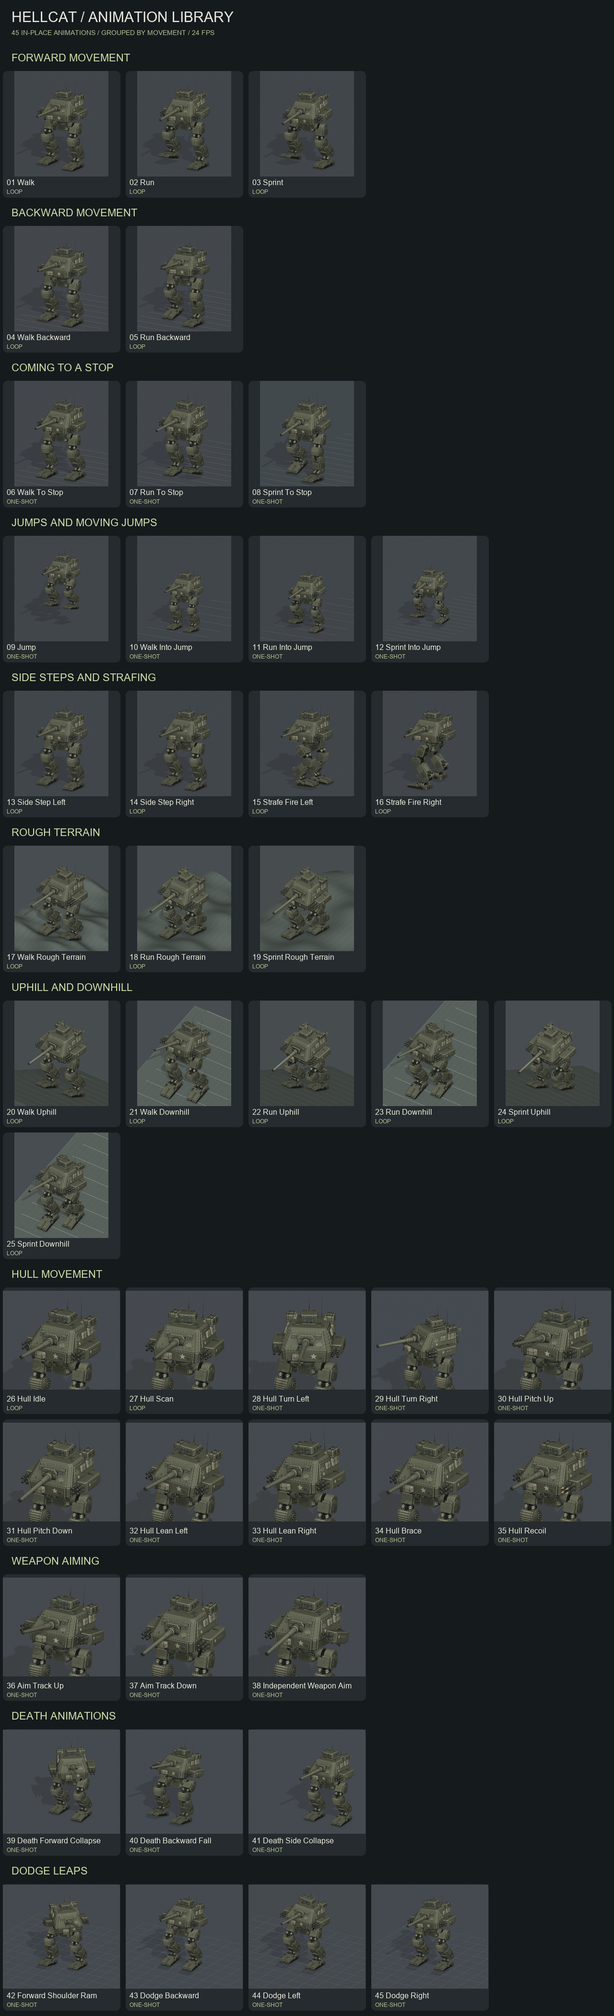
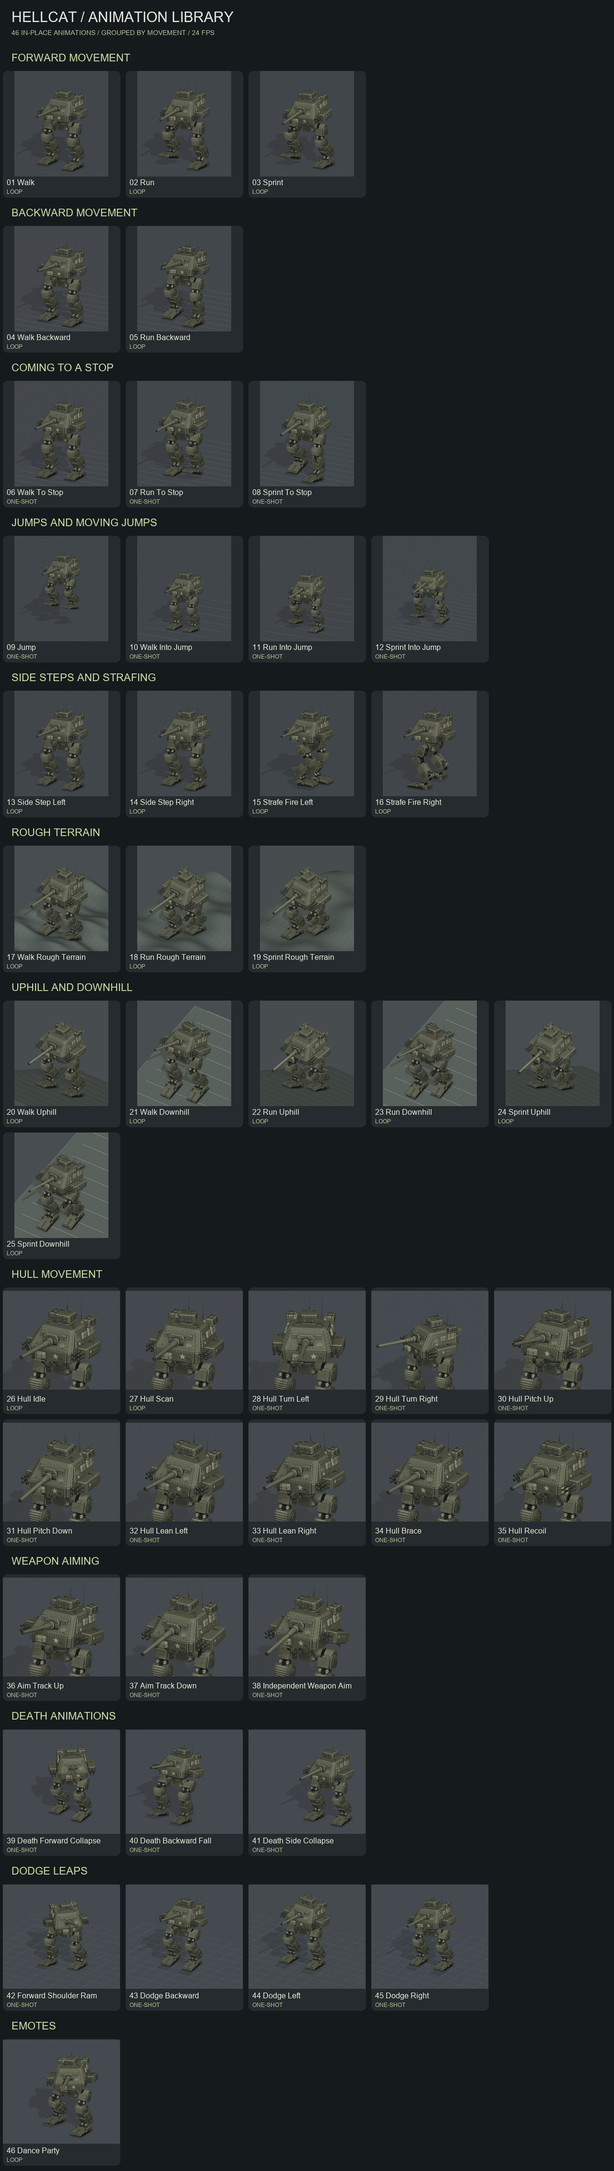
Add 46 Dance Party emote with verification and packaging updates

diff --git a/index.html b/index.html
@@ -10,10 +10,10 @@
 <header>
   <div class="eyebrow">M18 HELLCAT GHOST / MOTION STUDIES</div>
   <h1>Animation library</h1>
-  <p class="intro">45 animation previews, grouped by movement and numbered in viewing order. Choose a group below to jump to it.</p>
+  <p class="intro">46 animation previews, grouped by movement and numbered in viewing order. Choose a group below to jump to it.</p>
   <p class="note"><strong>Game controller setup:</strong> gameplay Actions retain a stationary root. Preview travel comes from a temporary controller simulation. Hill clips use 22° slopes; rough-terrain clips have roughly three times the original height variation. Terrain clips are authored examples to blend with runtime foot IK.</p>
   <p class="note"><strong>Weapon aiming:</strong> the cannon and each armored pod have ±20° elevation relative to the hull. Clips 36–37 show continued tracking after the hull reaches its ±5° aiming allocation; clip 38 shows independent targets. Terrain, slope, weapon-aiming, death, and dodge previews show the updated pod spacing; earlier motion previews retain their prior model revision.</p>
-  <nav aria-label="Animation groups"><a href="#forward">Forward movement</a><a href="#backward">Backward movement</a><a href="#stopping">Coming to a stop</a><a href="#jumps">Jumps and moving jumps</a><a href="#lateral">Side steps and strafing</a><a href="#rough-terrain">Rough terrain</a><a href="#slopes">Uphill and downhill</a><a href="#hull">Hull movement</a><a href="#weapons">Weapon aiming</a><a href="#deaths">Death animations</a><a href="#dodges">Dodge leaps</a></nav>
+  <nav aria-label="Animation groups"><a href="#forward">Forward movement</a><a href="#backward">Backward movement</a><a href="#stopping">Coming to a stop</a><a href="#jumps">Jumps and moving jumps</a><a href="#lateral">Side steps and strafing</a><a href="#rough-terrain">Rough terrain</a><a href="#slopes">Uphill and downhill</a><a href="#hull">Hull movement</a><a href="#weapons">Weapon aiming</a><a href="#deaths">Death animations</a><a href="#dodges">Dodge leaps</a><a href="#emotes">Emotes</a></nav>
   <nav aria-label="Project files"><a href="assets/contact_sheet.png">Contact sheet</a><a href="docs/animation-guide.md">Integration notes</a><a href="data/manifest.json">Manifest + verification</a></nav>
 </header>
 <main><section id="forward" aria-labelledby="heading-forward"><h2 class="group-heading" id="heading-forward">Forward movement<span class="range">01–03</span></h2><div class="grid"><article><a href="assets/animations/01_walk.gif"><img loading="lazy" src="assets/animations/01_walk.gif" alt="01 Walk animation"></a>
@@ -151,7 +151,10 @@
 <details><summary>Original Blender Action</summary><code>HC ANIM | 44 Dodge Left</code></details></div></article><article><a href="assets/animations/45_dodge_right.gif"><img loading="lazy" src="assets/animations/45_dodge_right.gif" alt="45 Dodge Right animation"></a>
 <div class="details"><h3>45 Dodge Right</h3><p class="tag">ONE-SHOT · 1.25s · Dodge</p>
 <p class="timing">Frames 1–31 · 1.680 units/s</p>
-<details><summary>Original Blender Action</summary><code>HC ANIM | 45 Dodge Right</code></details></div></article></div></section></main>
+<details><summary>Original Blender Action</summary><code>HC ANIM | 45 Dodge Right</code></details></div></article></div></section><section id="emotes" aria-labelledby="heading-emotes"><h2 class="group-heading" id="heading-emotes">Emotes<span class="range">46–46</span></h2><div class="grid"><article><a href="assets/animations/46_dance_party.gif"><img loading="lazy" src="assets/animations/46_dance_party.gif" alt="46 Dance Party animation"></a>
+<div class="details"><h3>46 Dance Party</h3><p class="tag">LOOP · 8.00s · Emote</p>
+<p class="timing">Frames 1–193 · 0.000 units/s</p>
+<details><summary>Original Blender Action</summary><code>HC ANIM | 46 Dance Party</code></details></div></article></div></section></main>
 <footer>Gallery numbers follow the grouped viewing order. Original Blender Action identifiers remain available in each card and the manifest. Direction labels are from the mech's perspective.</footer>
 </body>
 </html>

diff --git a/revision_6.html b/revision_6.html
@@ -10,10 +10,10 @@
 <header>
   <div class="eyebrow">M18 HELLCAT GHOST / MOTION STUDIES</div>
   <h1>Animation library</h1>
-  <p class="intro">45 animation previews, grouped by movement and numbered in viewing order. Choose a group below to jump to it.</p>
+  <p class="intro">46 animation previews, grouped by movement and numbered in viewing order. Choose a group below to jump to it.</p>
   <p class="note"><strong>Game controller setup:</strong> gameplay Actions retain a stationary root. Preview travel comes from a temporary controller simulation. Hill clips use 22° slopes; rough-terrain clips have roughly three times the original height variation. Terrain clips are authored examples to blend with runtime foot IK.</p>
   <p class="note"><strong>Weapon aiming:</strong> the cannon and each armored pod have ±20° elevation relative to the hull. Clips 36–37 show continued tracking after the hull reaches its ±5° aiming allocation; clip 38 shows independent targets. Terrain, slope, weapon-aiming, death, and dodge previews show the updated pod spacing; earlier motion previews retain their prior model revision.</p>
-  <nav aria-label="Animation groups"><a href="#forward">Forward movement</a><a href="#backward">Backward movement</a><a href="#stopping">Coming to a stop</a><a href="#jumps">Jumps and moving jumps</a><a href="#lateral">Side steps and strafing</a><a href="#rough-terrain">Rough terrain</a><a href="#slopes">Uphill and downhill</a><a href="#hull">Hull movement</a><a href="#weapons">Weapon aiming</a><a href="#deaths">Death animations</a><a href="#dodges">Dodge leaps</a></nav>
+  <nav aria-label="Animation groups"><a href="#forward">Forward movement</a><a href="#backward">Backward movement</a><a href="#stopping">Coming to a stop</a><a href="#jumps">Jumps and moving jumps</a><a href="#lateral">Side steps and strafing</a><a href="#rough-terrain">Rough terrain</a><a href="#slopes">Uphill and downhill</a><a href="#hull">Hull movement</a><a href="#weapons">Weapon aiming</a><a href="#deaths">Death animations</a><a href="#dodges">Dodge leaps</a><a href="#emotes">Emotes</a></nav>
   <nav aria-label="Project files"><a href="assets/contact_sheet.png">Contact sheet</a><a href="docs/animation-guide.md">Integration notes</a><a href="data/manifest.json">Manifest + verification</a></nav>
 </header>
 <main><section id="forward" aria-labelledby="heading-forward"><h2 class="group-heading" id="heading-forward">Forward movement<span class="range">01–03</span></h2><div class="grid"><article><a href="assets/animations/01_walk.gif"><img loading="lazy" src="assets/animations/01_walk.gif" alt="01 Walk animation"></a>
@@ -151,7 +151,10 @@
 <details><summary>Original Blender Action</summary><code>HC ANIM | 44 Dodge Left</code></details></div></article><article><a href="assets/animations/45_dodge_right.gif"><img loading="lazy" src="assets/animations/45_dodge_right.gif" alt="45 Dodge Right animation"></a>
 <div class="details"><h3>45 Dodge Right</h3><p class="tag">ONE-SHOT · 1.25s · Dodge</p>
 <p class="timing">Frames 1–31 · 1.680 units/s</p>
-<details><summary>Original Blender Action</summary><code>HC ANIM | 45 Dodge Right</code></details></div></article></div></section></main>
+<details><summary>Original Blender Action</summary><code>HC ANIM | 45 Dodge Right</code></details></div></article></div></section><section id="emotes" aria-labelledby="heading-emotes"><h2 class="group-heading" id="heading-emotes">Emotes<span class="range">46–46</span></h2><div class="grid"><article><a href="assets/animations/46_dance_party.gif"><img loading="lazy" src="assets/animations/46_dance_party.gif" alt="46 Dance Party animation"></a>
+<div class="details"><h3>46 Dance Party</h3><p class="tag">LOOP · 8.00s · Emote</p>
+<p class="timing">Frames 1–193 · 0.000 units/s</p>
+<details><summary>Original Blender Action</summary><code>HC ANIM | 46 Dance Party</code></details></div></article></div></section></main>
 <footer>Gallery numbers follow the grouped viewing order. Original Blender Action identifiers remain available in each card and the manifest. Direction labels are from the mech's perspective.</footer>
 </body>
 </html>

diff --git a/tools/blender_dance_party.py b/tools/blender_dance_party.py
@@ -1,0 +1,90 @@
+"""Build the HELLCAT dance emote in live Blender; supply PROJECT_ROOT. Never saves .blend."""
+import bpy,math,json
+from mathutils import Vector
+from pathlib import Path
+
+rig=bpy.data.objects['HELLCAT | CURRENT MECH RIG'];scene=bpy.context.scene
+ctx=bpy.app.driver_namespace['HC animation build context']
+LABEL='46 Dance Party';DURATION=192
+def smooth(x):
+    x=max(0,min(1,x));return x*x*(3-2*x)
+def state(t):
+    st=ctx['state']();env=smooth(t/6)*(1-smooth((t-180)/12))
+    beat=t/12;u=beat%1;bar=int(t//48);wave=math.sin(math.pi*u)
+    active='L' if int(beat)%2==0 else 'R'
+    sway=math.sin(math.pi*beat)
+    z=(-.13-.10*(1-wave))*env
+    x=-.14*sway*env
+    yaw=22*math.sin(math.pi*beat/2)*env
+    roll=-6*sway*env;pitch=(3+4*math.sin(math.tau*beat))*env
+    if bar==2:
+        # Both feet stay planted for a rapid hull shimmy and alternating pod wave.
+        x=.12*math.sin(math.pi*beat)*env
+        yaw=28*math.sin(math.tau*beat/2)*env
+        roll=7*math.sin(math.tau*beat)*env
+        z=(-.19+.055*math.cos(math.tau*beat))*env
+    if bar>=3:
+        flourish=smooth((t-144)/8)*(1-smooth((t-168)/20))
+        yaw=(30*flourish+10*math.sin(math.pi*beat/2))*env
+        pitch=(2*flourish+3*math.sin(math.tau*beat))*env
+    ctx['loc'](st,'CTRL.pelvis',(x,0,z))
+    ctx['rot'](st,'CTRL.torso',(pitch,yaw,roll))
+    ctx['rot'](st,'CTRL.sensor.yaw',(0,-yaw*.55,0))
+    ctx['rot'](st,'CTRL.sensor.pitch',(-pitch*.5+3*math.sin(math.tau*beat)*env,0,0))
+    for side,sign in [('L',1),('R',-1)]:
+        v=Vector((0,0,0))
+        if side==active and bar!=2:
+            lift=.30 if bar==0 else .24 if bar==1 else .36
+            v.z=lift*wave**1.2*env
+            if bar==1:
+                v.x=sign*.23*wave*env;v.y=.22*math.sin(math.tau*u)*env
+            else:v.y=-.16*wave*env
+        ctx['loc'](st,'CTRL.foot_IK.'+side,v)
+        st['contact'][side]=v.z<1e-6;st['lift'][side]=v.z
+        ctx['rot'](st,'CTRL.ankle_tilt.'+side,(-10*wave*env if v.z else 0,0,0))
+        pod=(-9+9*math.sin(math.pi*beat+sign*math.pi/2))*env
+        if bar>=3:pod=-18*smooth((t-144)/8)*env
+        ctx['rot'](st,'CTRL.pod_aim.'+side,(pod,0,0))
+    cannon=(-6+5*math.sin(math.pi*beat/2))*env
+    if bar>=3:cannon=-17*smooth((t-144)/8)*env
+    ctx['rot'](st,'CTRL.cannon.aim',(cannon,0,0))
+    ctx['rot'](st,'CTRL.antenna.head',(4*math.sin(math.tau*beat+.5)*env,0,0))
+    ctx['rot'](st,'CTRL.antenna.hull',(2.5*math.sin(math.tau*beat-.3)*env,0,0))
+    return st
+
+digest=bpy.app.driver_namespace['HC terrain revision context']['digest']
+bpy.app.driver_namespace['HC dance protected actions']={a.name:digest(a) for a in bpy.data.actions if a.name.startswith('HC ANIM | ') and a.name!='HC ANIM | '+LABEL}
+original=(rig.animation_data.action,rig.animation_data.action_slot,scene.frame_current)
+try:
+    old=bpy.data.actions.get('HC ANIM | '+LABEL)
+    if old:
+        assert old.get('HC dance emote');old.name='HC ARCHIVE | '+LABEL;old.use_fake_user=True;old.asset_clear()
+    action=bpy.data.actions.new('HC ANIM | '+LABEL);action.use_fake_user=True;rig.animation_data.action=action
+    samples=[]
+    for f in range(1,DURATION+2):
+        scene.frame_set(f);st=state(f-1);ctx['apply'](st)
+        for n in ctx['controls']:
+            p=rig.pose.bones[n]
+            if n in ctx['FX']:p.keyframe_insert(data_path='scale',frame=f,group='Optional weapon FX')
+            else:
+                p.keyframe_insert(data_path='location',frame=f,group=n);p.keyframe_insert(data_path='rotation_euler',frame=f,group=n)
+        samples.append({'frame':f,'contacts':st['contact']})
+    for layer in action.layers:
+        for strip in layer.strips:
+            for bag in strip.channelbags:
+                for fc in bag.fcurves:
+                    for key in fc.keyframe_points:key.interpolation='LINEAR'
+                    fc.modifiers.new('CYCLES')
+    markers=[('Stomp groove',1),('Side shuffle',49),('Hull shimmy',97),('Victory flourish',145),('Return to ready',181)]
+    for name,f in markers:action.pose_markers.new(name).frame=f
+    action['HC animation library']='MECH_2026_09';action['HC dance emote']=True;action['FPS']=24;action['Loop']=True;action['BPM']=120
+    action['Category']='Emote';action['Root motion']='None';action['Contact samples']=json.dumps(samples)
+    action.asset_mark();action.asset_data.description='8-second party dance: stomps, shuffle, hull shimmy, pod waves and victory flourish. 120 BPM, stationary root.'
+finally:
+    ctx['reset']();rig.animation_data.action=original[0]
+    if original[1]:rig.animation_data.action_slot=original[1]
+    scene.frame_set(original[2])
+bpy.app.driver_namespace['HC dance context']={'state':state,'label':LABEL,'duration':DURATION}
+row={'label':LABEL,'source_label':LABEL,'action':'HC ANIM | '+LABEL,'slug':'46_dance_party','duration_frames':DURATION,'fps':24,'loop':True,'category':'Emote','gallery_group':'emotes','nominal_speed_units_per_s':0,'bpm':120,'preview_frame_step':2,'revision':'Dance party','markers':[{'name':n,'frame':f} for n,f in markers]}
+(Path(PROJECT_ROOT)/'build/dance_action.json').write_text(json.dumps(row,indent=2)+'\n')
+print(json.dumps({'created':row['action'],'duration_seconds':8,'saved':False}))

diff --git a/tools/blender_verify_dance.py b/tools/blender_verify_dance.py
@@ -1,0 +1,48 @@
+"""Verify the dance clip in live Blender. Supply PROJECT_ROOT."""
+import bpy,json
+from pathlib import Path
+rig=bpy.data.objects['HELLCAT | CURRENT MECH RIG'];scene=bpy.context.scene
+ctx=bpy.app.driver_namespace['HC animation build context'];dc=bpy.app.driver_namespace['HC dance context']
+tree=bpy.app.driver_namespace['HC weapon mesh_tree'];floor=bpy.app.driver_namespace['HC death context']['floor_low']
+old=(rig.animation_data.action,scene.frame_current);root=slide=attachment=0;minimum=1e9;first=None;previous={};hits={}
+try:
+    ctx['reset']();rig.animation_data.action=bpy.data.actions['HC ANIM | 46 Dance Party']
+    for f in range(1,194):
+        scene.frame_set(f);st=dc['state'](f-1)
+        p=rig.pose.bones['CTRL.root'];root=max(root,p.location.length,p.rotation_euler.to_matrix().to_quaternion().angle)
+        minimum=min(minimum,floor()[0])
+        if first is None:first={p.name:p.matrix_basis.copy() for p in rig.pose.bones}
+        for side in ['L','R']:
+            point=rig.pose.bones['DEF.foot.'+side].head
+            if st['contact'][side]:
+                if side in previous:slide=max(slide,(point-previous[side]).xy.length)
+                previous[side]=point.copy()
+            else:previous.pop(side,None)
+            for name in ['DEF.shin.','DEF.hock.','DEF.foot.']:
+                p=rig.pose.bones[name+side];attachment=max(attachment,(p.head-p.parent.tail).length)
+        cache={}
+        def get(n,p=None):
+            if (n,p) not in cache:cache[n,p]=tree(n,p)
+            return cache[n,p]
+        def pair(a,b,pa=None,pb=None):
+            overlap=get(a,pa).overlap(get(b,pb))
+            if overlap:hits.setdefault(a+' / '+b,[]).append({'frame':f,'faces':len(overlap)})
+        for side in ['L','R']:
+            pre='HC V2 '+side+' | '
+            pair(pre+'02 layered thigh shells',pre+'03 curved knee guards')
+            pair(pre+'07 load frames and brackets',pre+'02 layered thigh shells')
+            for part in ['01 shaped hip armor','02 layered thigh shells']:
+                pair(pre+part,'HC Hull | closed faceted lower tub')
+                pair(pre+part,'HC Pods | twin armored sponsons',None,'CTRL.pod_aim')
+            pair(pre+'05 faceted shin housings',pre+'08 layered toe and instep armor')
+            pair(pre+'12 reverse hock to ankle links',pre+'08 layered toe and instep armor')
+            pair(pre+'02 layered thigh shells','HC Cannon | continuous barrel and open bore')
+
+        for hull in ['HC Hull | closed faceted lower tub','HC Hull | layered casemate armor']:
+            pair('HC Pods | twin armored sponsons',hull,'CTRL.pod_aim')
+    seam=max(abs(p.matrix_basis[i][j]-first[p.name][i][j]) for p in rig.pose.bones for i in range(4) for j in range(4))
+finally:
+    ctx['reset']();rig.animation_data.action=old[0];scene.frame_set(old[1])
+report={'clip':'46 Dance Party','frames_checked':193,'root_error':root,'minimum_body_surface_z':minimum,'maximum_planted_foot_slide':slide,'maximum_joint_attachment_error':attachment,'loop_seam':seam,'intersections':hits,'scope':'All frames: stationary root, conservative body floor clearance, planted-foot movement, leg joint attachment, loop endpoints, selected leg armor pairs and moving pod armor against the hull. Not an exhaustive all-object collision check.'}
+(Path(PROJECT_ROOT)/'data/verification/dance_party.json').write_text(json.dumps(report,indent=2)+'\n')
+print(json.dumps(report))

diff --git a/tools/blender_render_dance.py b/tools/blender_render_dance.py
@@ -1,0 +1,46 @@
+"""Render the dance-party emote through Blender MCP; restore scene settings.
+Supply PROJECT_ROOT and optionally DANCE_FRAMES.
+"""
+import bpy,math,json
+import numpy as np
+from pathlib import Path
+from mathutils import Vector
+
+out=Path(PROJECT_ROOT)/'build/dance_previews';out.mkdir(parents=True,exist_ok=True)
+rig=bpy.data.objects['HELLCAT | CURRENT MECH RIG'];studio=bpy.data.scenes['HELLCAT | Walking GIF studio'];win=bpy.context.window
+dc=bpy.app.driver_namespace['HC death context'];ctx=bpy.app.driver_namespace['HC animation build context']
+saved=(win.scene,rig.animation_data.action,rig.animation_data.action_slot,win.scene.frame_current)
+saved_pose={p.name:p.matrix_basis.copy() for p in rig.pose.bones}
+camera=studio.camera;cam_matrix=camera.matrix_world.copy();cam_scale=camera.data.ortho_scale
+settings=(studio.render.filepath,studio.render.resolution_x,studio.render.resolution_y,studio.render.resolution_percentage,studio.render.engine,studio.render.image_settings.file_format,studio.frame_current)
+done=[]
+try:
+    win.scene=studio;studio.render.engine='BLENDER_WORKBENCH';studio.render.image_settings.file_format='PNG'
+    studio.render.resolution_x=720;studio.render.resolution_y=640;studio.render.resolution_percentage=100
+    for c in [dict(label='46 Dance Party',duration=192)]:
+        ctx['reset']();rig.animation_data.action=bpy.data.actions['HC ANIM | '+c['label']]
+        direction=Vector((8,-13,6)).normalized();rotation=(-direction).to_track_quat('-Z','Y')
+        right=rotation@Vector((1,0,0));up=rotation@Vector((0,1,0))
+        lo=np.array([1e9,1e9]);hi=-lo
+        for f in list(range(1,194,6)):
+            studio.frame_set(f)
+            for bn,points in dc['cloud'].items():
+                m=np.asarray(rig.matrix_world@rig.pose.bones[bn].matrix)
+                projected=points@m[:3,:].T@np.array([right,up]).T
+                lo=np.minimum(lo,projected.min(axis=0));hi=np.maximum(hi,projected.max(axis=0))
+        center=(lo+hi)/2;target=right*center[0]+up*center[1]
+        camera.location=target+direction*20;camera.rotation_euler=rotation.to_euler()
+        camera.data.ortho_scale=max((hi[0]-lo[0])*1.13,(hi[1]-lo[1])*720/640*1.13)
+        folder=out/c['label'].lower().replace(' ','_');folder.mkdir(exist_ok=True)
+        frames=globals().get('DANCE_FRAMES') or list(range(1,c['duration']+1,2))
+        for f in frames:
+            studio.frame_set(f);studio.render.filepath=str(folder/f'frame_{f:03d}.png');bpy.ops.render.render(write_still=True)
+        done.append({'label':c['label'],'frames':len(frames),'ortho_scale':camera.data.ortho_scale})
+finally:
+    camera.matrix_world=cam_matrix;camera.data.ortho_scale=cam_scale
+    studio.render.filepath,studio.render.resolution_x,studio.render.resolution_y,studio.render.resolution_percentage,studio.render.engine,studio.render.image_settings.file_format,frame=settings
+    studio.frame_set(frame);win.scene=saved[0];rig.animation_data.action=saved[1]
+    if saved[2]:rig.animation_data.action_slot=saved[2]
+    for n,m in saved_pose.items():rig.pose.bones[n].matrix_basis=m
+    saved[0].frame_set(saved[3]);bpy.context.view_layer.update()
+print(json.dumps({'rendered':done,'blend_saved':False}))

diff --git a/tools/package_dance_preview.py b/tools/package_dance_preview.py
@@ -1,0 +1,34 @@
+"""Package Dance Party for the offline gallery. Requires Pillow."""
+import json
+from pathlib import Path
+from PIL import Image
+
+ROOT=Path(__file__).resolve().parents[1]
+def main():
+    clip=json.loads((ROOT/'build/dance_action.json').read_text())
+    report=json.loads((ROOT/'data/verification/dance_party.json').read_text())
+    assert not report['intersections'] and report['minimum_body_surface_z']>=0
+    assert report['root_error']<1e-6 and report['loop_seam']<1e-6
+    assert report['maximum_planted_foot_slide']<1e-4
+    frames=[]
+    for f in range(1,193,2):
+        with Image.open(ROOT/'build/dance_previews/46_dance_party'/f'frame_{f:03d}.png') as image:
+            im=image.convert('RGB');im.thumbnail((540,480),Image.Resampling.LANCZOS);frames.append(im.copy())
+    atlas=Image.new('RGB',(900,160))
+    for j,k in enumerate([3,27,51,75,87]):
+        im=frames[k].copy();im.thumbnail((180,160));atlas.paste(im,(j*180,0))
+    palette=atlas.quantize(colors=224,method=Image.Quantize.MEDIANCUT)
+    encoded=[im.quantize(palette=palette,dither=Image.Dither.NONE) for im in frames]
+    durations=[round((i+1)*100/12)*10-round(i*100/12)*10 for i in range(len(frames))]
+    target=ROOT/'assets/animations/46_dance_party.gif'
+    encoded[0].save(target,save_all=True,append_images=encoded[1:],duration=durations,loop=0,optimize=True,disposal=1)
+    with Image.open(target) as im:assert im.n_frames==96
+    path=ROOT/'data/manifest.json';data=json.loads(path.read_text(encoding='utf-8'))
+    data['clips']=[c for c in data['clips'] if c['action']!=clip['action']]+[clip]
+    data['clips'].sort(key=lambda c:int(c['label'].split()[0]))
+    if not any(g['id']=='emotes' for g in data['gallery_groups']):data['gallery_groups'].append({'id':'emotes','title':'Emotes'})
+    data['dance_party_verification']=report
+    path.write_text(json.dumps(data,indent=2)+'\n',encoding='utf-8')
+    readme=ROOT/'README.md';readme.write_text(readme.read_text(encoding='utf-8').replace('45 in-place','46 in-place').replace('01–45','01–46'),encoding='utf-8')
+    print('Packaged 46 Dance Party: 96 preview frames, 8 seconds, 120 BPM.')
+if __name__=='__main__':main()

diff --git a/tools/validate_gallery.py b/tools/validate_gallery.py
@@ -102,7 +102,7 @@ def main():
             require(target.is_relative_to(ROOT) and target.exists(), f"Broken documentation link in {name}: {link}")
     report = json.loads((ROOT/'data/verification/weapon_aim_verification.json').read_text(encoding='utf-8'))
     require(report == manifest['weapon_elevation_verification'], 'Weapon verification copies disagree')
-    for key, filename in [('death_animations_verification','death_animations.json'), ('dodge_animations_verification','dodge_animations.json'), ('terrain_revision_verification','terrain_revision.json')]:
+    for key, filename in [('death_animations_verification','death_animations.json'), ('dodge_animations_verification','dodge_animations.json'), ('terrain_revision_verification','terrain_revision.json'), ('dance_party_verification','dance_party.json')]:
         if key in manifest:
             report = json.loads((ROOT/'data/verification'/filename).read_text(encoding='utf-8'))
             require(report == manifest[key], f'Verification copies disagree: {filename}')

diff --git a/docs/animation-guide.md b/docs/animation-guide.md
@@ -160,6 +160,12 @@ All 124 frames passed stationary-root, ground-clearance, airborne-foot, planted-
 
 Creation, rendering and verification scripts are in `tools/blender_dodge_animations.py`, `tools/blender_render_dodges.py`, and `tools/blender_verify_dodges.py`. They require the existing live HELLCAT rig and its animation/geometry contexts. Supply `PROJECT_ROOT` through Blender MCP; intermediates go in ignored `build/`. Package with `python tools/package_dodge_previews.py`, then run the gallery builders and validator.
 
+### Dance Party
+
+Clip **46 Dance Party** (`HC ANIM | 46 Dance Party`) is an eight-second, 120 BPM emote at 24 fps, frames 1–193. It loops from a matching neutral pose: stomp groove at frame 1, side shuffle at 49, hull shimmy and alternating pod waves at 97, victory flourish at 145, and return to ready at 181. The root stays stationary. Weapon movement is expressive; muzzle flashes remain off. The GIF has no audio.
+
+All 193 frames passed the checks described in [dance verification](../data/verification/dance_party.json). Build, render, verify and package with `tools/blender_dance_party.py`, `tools/blender_render_dance.py`, `tools/blender_verify_dance.py`, and `tools/package_dance_preview.py`; the Blender scripts require the existing live rig and animation contexts plus `PROJECT_ROOT`.
+
 ## Validation
 
 Every frame was checked for stationary roots, foot IK reach, sole height and knee hinge alignment. Terrain clips were checked against their reference surface. Loop closure poses match. Sampled mesh checks found no intersections among the tested hip, ankle, hydraulic, hose and armor pairs. These checks are not an exhaustive collision test of every object pair.

diff --git a/README.md b/README.md
@@ -1,6 +1,6 @@
 # HELLCAT animation library
 
-An offline gallery of 45 in-place mech animation previews, grouped by movement and numbered 01–45.
+An offline gallery of 46 in-place mech animation previews, grouped by movement and numbered 01–46.
 
 Open [index.html](index.html) in a browser. No installation, build step, internet connection, or server is required to view the gallery. The repository includes final previews and metadata; the editable Blender model and Actions are maintained separately.
 
